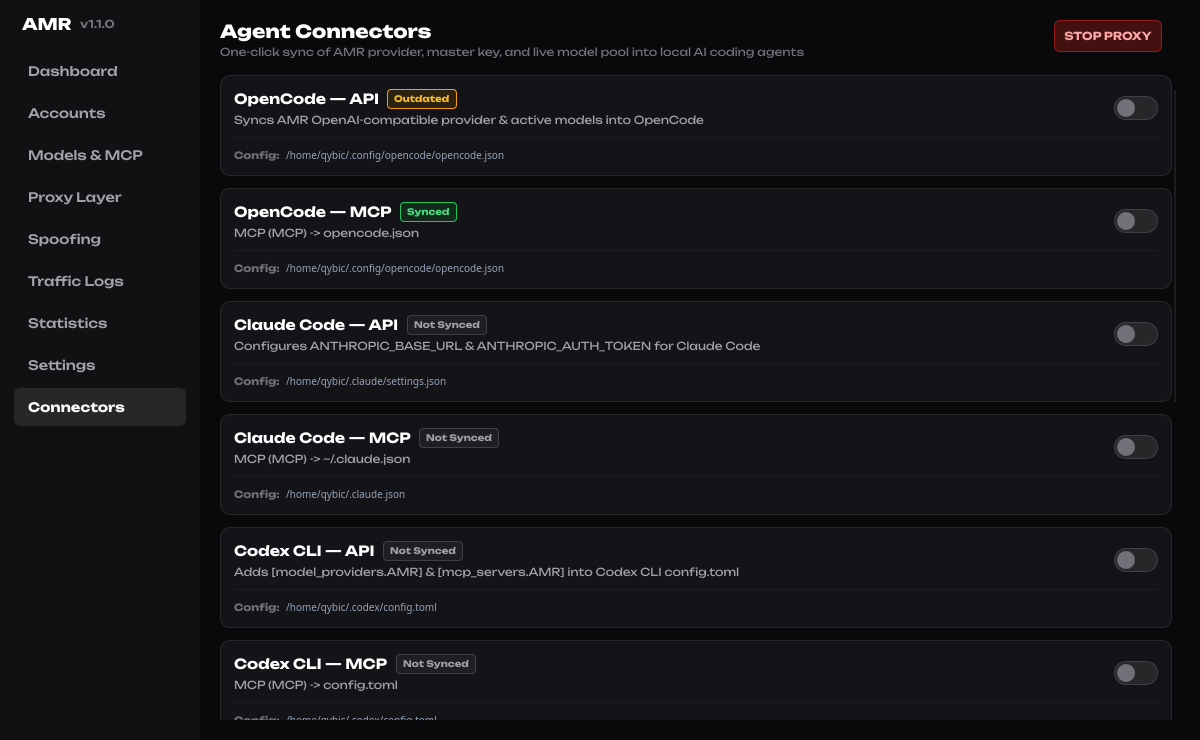
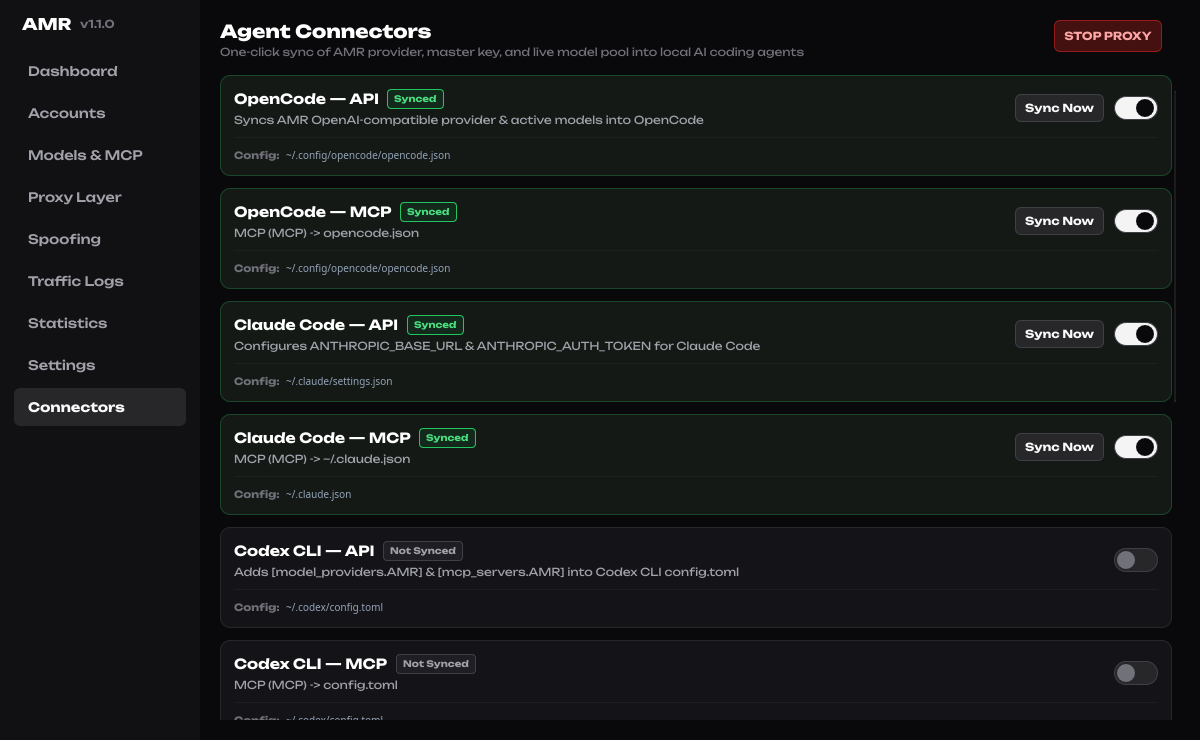
fix(ui,connectors): align master key input, fix connector sync status, and update v1.1.0 screenshots

diff --git a/src/main.rs b/src/main.rs
@@ -44,17 +44,29 @@ fn refresh_connectors_ui(ui: &MainWindow, config: &AppConfig) {
             "cline" => t.conn_cline_desc.clone(),
             _ => String::new(),
         };
-        let status = amr::connectors::check_connector_status(desc.id, config);
-        let (status_text, status_kind) = match status {
-            amr::connectors::ConnectorSyncStatus::Synced => (t.conn_status_synced.clone(), "synced"),
-            amr::connectors::ConnectorSyncStatus::Outdated => {
-                (t.conn_status_outdated.clone(), "outdated")
-            }
-            amr::connectors::ConnectorSyncStatus::NotSynced => {
-                (t.conn_status_not_synced.clone(), "not_synced")
-            }
-            amr::connectors::ConnectorSyncStatus::Error(e) => {
-                (format!("{}: {}", t.conn_status_error, e), "error")
+        let (status_text, status_kind) = if !enabled {
+            (t.conn_status_not_synced.clone(), "not_synced")
+        } else {
+            let status = match amr::connectors::check_connector_status(desc.id, config) {
+                amr::connectors::ConnectorSyncStatus::Outdated => {
+                    match amr::connectors::sync_connector(desc.id, config, true) {
+                        Ok(()) => amr::connectors::ConnectorSyncStatus::Synced,
+                        Err(e) => amr::connectors::ConnectorSyncStatus::Error(e),
+                    }
+                }
+                other => other,
+            };
+            match status {
+                amr::connectors::ConnectorSyncStatus::Synced => (t.conn_status_synced.clone(), "synced"),
+                amr::connectors::ConnectorSyncStatus::Outdated => {
+                    (t.conn_status_outdated.clone(), "outdated")
+                }
+                amr::connectors::ConnectorSyncStatus::NotSynced => {
+                    (t.conn_status_not_synced.clone(), "not_synced")
+                }
+                amr::connectors::ConnectorSyncStatus::Error(e) => {
+                    (format!("{}: {}", t.conn_status_error, e), "error")
+                }
             }
         };
         items.push(ConnectorItemData {
@@ -972,7 +984,102 @@ fn capture_and_save_screenshots(target_dir: &str) -> Result<(), Box<dyn std::err
     ];
     main_window.set_accounts(Rc::new(VecModel::from(accounts)).into());
 
-    let models = get_display_models(&AppConfig::default());
+    main_window.set_master_api_key("sk-amr-v110-demo-master-key-98765432".into());
+    main_window.set_master_key_visible(false);
+
+    let models = vec![
+        ModelItemData {
+            id: "claude-opus-4-6-thinking".into(),
+            display_name: "Claude Opus 4.6 (Thinking)".into(),
+            provider: "anthropic".into(),
+            tier: "PRO".into(),
+            is_enabled: true,
+            supports_thinking: true,
+            modality: "chat".into(),
+            availability_status: "ACTIVE".into(),
+            quota_percent: 100,
+            notice: "".into(),
+            available_accounts_count: 2,
+        },
+        ModelItemData {
+            id: "claude-sonnet-4-6-thinking".into(),
+            display_name: "Claude Sonnet 4.6 (Thinking)".into(),
+            provider: "anthropic".into(),
+            tier: "PRO".into(),
+            is_enabled: true,
+            supports_thinking: true,
+            modality: "chat".into(),
+            availability_status: "ACTIVE".into(),
+            quota_percent: 100,
+            notice: "".into(),
+            available_accounts_count: 2,
+        },
+        ModelItemData {
+            id: "claude-haiku-4-5".into(),
+            display_name: "Claude Haiku 4.5".into(),
+            provider: "anthropic".into(),
+            tier: "FREE".into(),
+            is_enabled: true,
+            supports_thinking: false,
+            modality: "chat".into(),
+            availability_status: "ACTIVE".into(),
+            quota_percent: 100,
+            notice: "".into(),
+            available_accounts_count: 2,
+        },
+        ModelItemData {
+            id: "gemini-3.8-pro".into(),
+            display_name: "Gemini 3.8 Pro".into(),
+            provider: "google".into(),
+            tier: "PRO".into(),
+            is_enabled: true,
+            supports_thinking: true,
+            modality: "chat".into(),
+            availability_status: "ACTIVE".into(),
+            quota_percent: 91,
+            notice: "".into(),
+            available_accounts_count: 2,
+        },
+        ModelItemData {
+            id: "gemini-3.8-flash".into(),
+            display_name: "Gemini 3.8 Flash".into(),
+            provider: "google".into(),
+            tier: "FREE".into(),
+            is_enabled: true,
+            supports_thinking: true,
+            modality: "chat".into(),
+            availability_status: "ACTIVE".into(),
+            quota_percent: 91,
+            notice: "".into(),
+            available_accounts_count: 2,
+        },
+        ModelItemData {
+            id: "gemini-3.5-transcribe".into(),
+            display_name: "Gemini 3.5 Transcribe (STT)".into(),
+            provider: "google".into(),
+            tier: "FREE".into(),
+            is_enabled: true,
+            supports_thinking: false,
+            modality: "audio".into(),
+            availability_status: "ACTIVE".into(),
+            quota_percent: 91,
+            notice: "".into(),
+            available_accounts_count: 2,
+        },
+        ModelItemData {
+            id: "web-search".into(),
+            display_name: "Google Web Search Grounding".into(),
+            provider: "google".into(),
+            tier: "FREE".into(),
+            is_enabled: true,
+            supports_thinking: false,
+            modality: "search".into(),
+            availability_status: "ACTIVE".into(),
+            quota_percent: 100,
+            notice: "".into(),
+            available_accounts_count: 2,
+        },
+    ];
     main_window.set_models(Rc::new(VecModel::from(models)).into());
 
     let logs = vec![
@@ -1019,8 +1126,57 @@ fn capture_and_save_screenshots(target_dir: &str) -> Result<(), Box<dyn std::err
     ];
     main_window.set_log_entries(Rc::new(VecModel::from(logs)).into());
 
-    // Stats tab metrics (zeros when no live stats)
-    refresh_connectors_ui(&main_window, &AppConfig::default());
+    let t = get_translations(Language::En);
+    let demo_connectors: Vec<ConnectorItemData> = amr::connectors::CONNECTORS
+        .iter()
+        .map(|desc| {
+            let enabled = matches!(
+                desc.id,
+                "opencode_api" | "opencode_mcp" | "claude_code_api" | "claude_code_mcp"
+            );
+            let path_str = match desc.id {
+                "opencode_api" | "opencode_mcp" => "~/.config/opencode/opencode.json",
+                "claude_code_api" => "~/.claude/settings.json",
+                "claude_code_mcp" => "~/.claude.json",
+                "codex_api" | "codex_mcp" => "~/.codex/config.toml",
+                "gemini_cli_api" | "gemini_cli_mcp" => "~/.gemini/settings.json",
+                "deepseek_harness" => "~/.deepseek/config.json",
+                "cursor" => "~/.cursor/mcp.json",
+                "cline" => "~/.cline/mcp_settings.json",
+                _ => "-",
+            };
+            let description = match desc.id {
+                "opencode_api" => t.conn_opencode_desc.clone(),
+                "opencode_mcp" => format!("MCP ({}) -> opencode.json", desc.category),
+                "claude_code_api" => t.conn_claude_code_desc.clone(),
+                "claude_code_mcp" => format!("MCP ({}) -> ~/.claude.json", desc.category),
+                "codex_api" => t.conn_codex_desc.clone(),
+                "codex_mcp" => format!("MCP ({}) -> config.toml", desc.category),
+                "gemini_cli_api" => t.conn_gemini_cli_desc.clone(),
+                "gemini_cli_mcp" => format!("MCP ({}) -> settings.json", desc.category),
+                "deepseek_harness" => t.conn_deepseek_harness_desc.clone(),
+                "cursor" => t.conn_cursor_desc.clone(),
+                "cline" => t.conn_cline_desc.clone(),
+                _ => String::new(),
+            };
+            let (status_text, status_kind) = if enabled {
+                (t.conn_status_synced.clone(), "synced")
+            } else {
+                (t.conn_status_not_synced.clone(), "not_synced")
+            };
+            ConnectorItemData {
+                id: desc.id.into(),
+                name: desc.name.into(),
+                category: desc.category.into(),
+                description: description.into(),
+                config_path: path_str.into(),
+                enabled,
+                status_text: status_text.into(),
+                status_kind: status_kind.into(),
+            }
+        })
+        .collect();
+    main_window.set_connectors_list(ModelRc::new(VecModel::from(demo_connectors)));
 
     main_window.set_stat_prompt_tokens("42,840".into());
     main_window.set_stat_completion_tokens("18,410".into());
